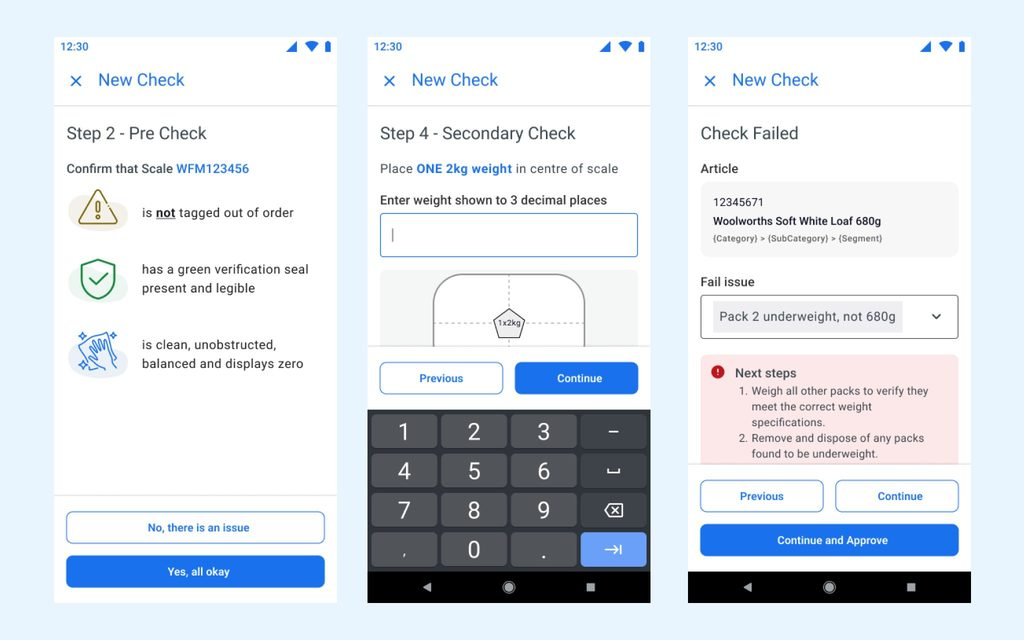
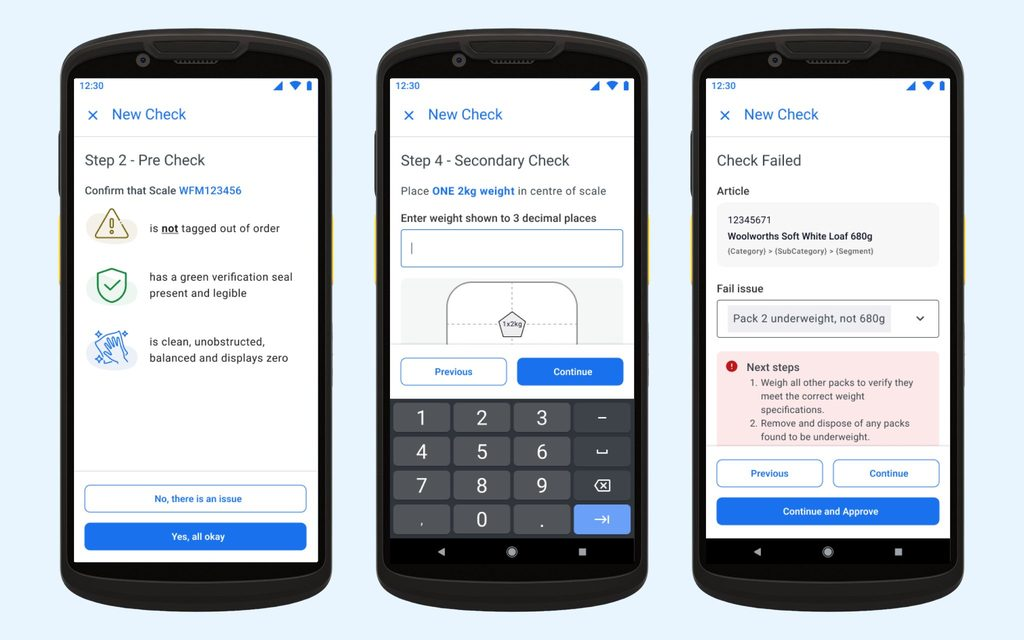
Food Safety hero with device frames
Claude-Session: https://claude.ai/code/session_01HoZMpTbMvRVAoChpwWa2w3

diff --git a/portfolio-repo/projects/woolies-food-safety.html b/portfolio-repo/projects/woolies-food-safety.html
@@ -27,7 +27,7 @@
       <h1 class="case-title">Me@Woolies: Food Safety</h1>
       <p class="case-lede">Digitising food safety checks for auditability, without losing the speed and ease of paper.</p>
 
-      <div class="case-cover"><img src="../assets/woolies-food-safety-hero.jpg" srcset="../assets/woolies-food-safety-hero-640.jpg 640w, ../assets/woolies-food-safety-hero-1024.jpg 1024w, ../assets/woolies-food-safety-hero-1600.jpg 1600w, ../assets/woolies-food-safety-hero.jpg 2048w" sizes="(max-width: 720px) 100vw, 800px" alt="Three Food Safety screens on the RF device: the pre-check, a weighing step with a scale diagram, and a failed check." loading="lazy" decoding="async"></div>
+      <div class="case-cover"><img src="../assets/woolies-food-safety-hero.jpg" srcset="../assets/woolies-food-safety-hero-640.jpg 640w, ../assets/woolies-food-safety-hero-1024.jpg 1024w, ../assets/woolies-food-safety-hero-1600.jpg 1600w, ../assets/woolies-food-safety-hero.jpg 2048w" sizes="(max-width: 720px) 100vw, 800px" alt="Three Food Safety screens on the handheld device: the pre-check, a weighing step with a scale diagram, and a failed check." loading="lazy" decoding="async"></div>
 
 
       <div class="meta-grid">
